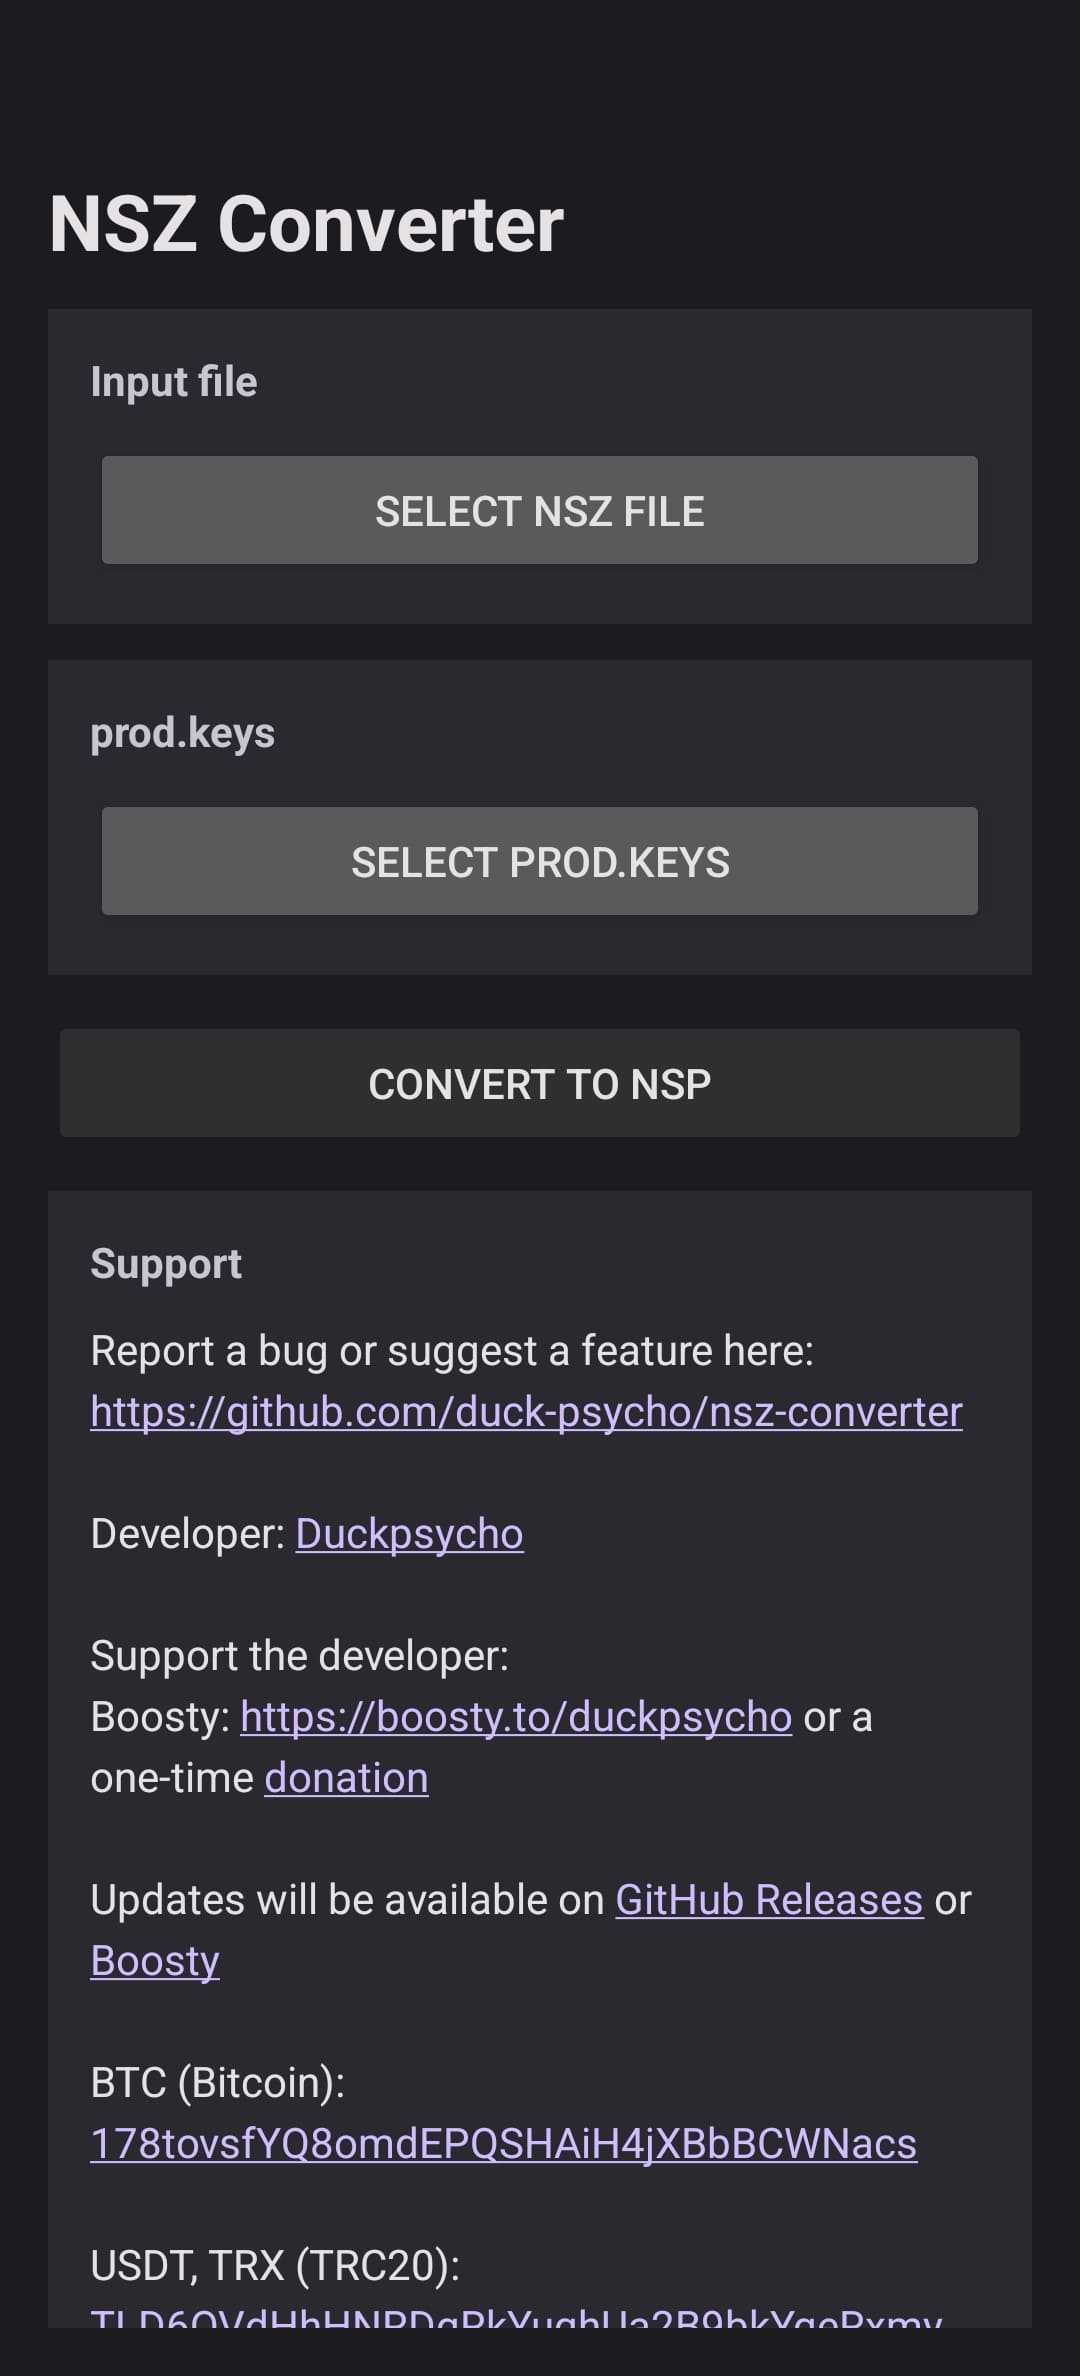
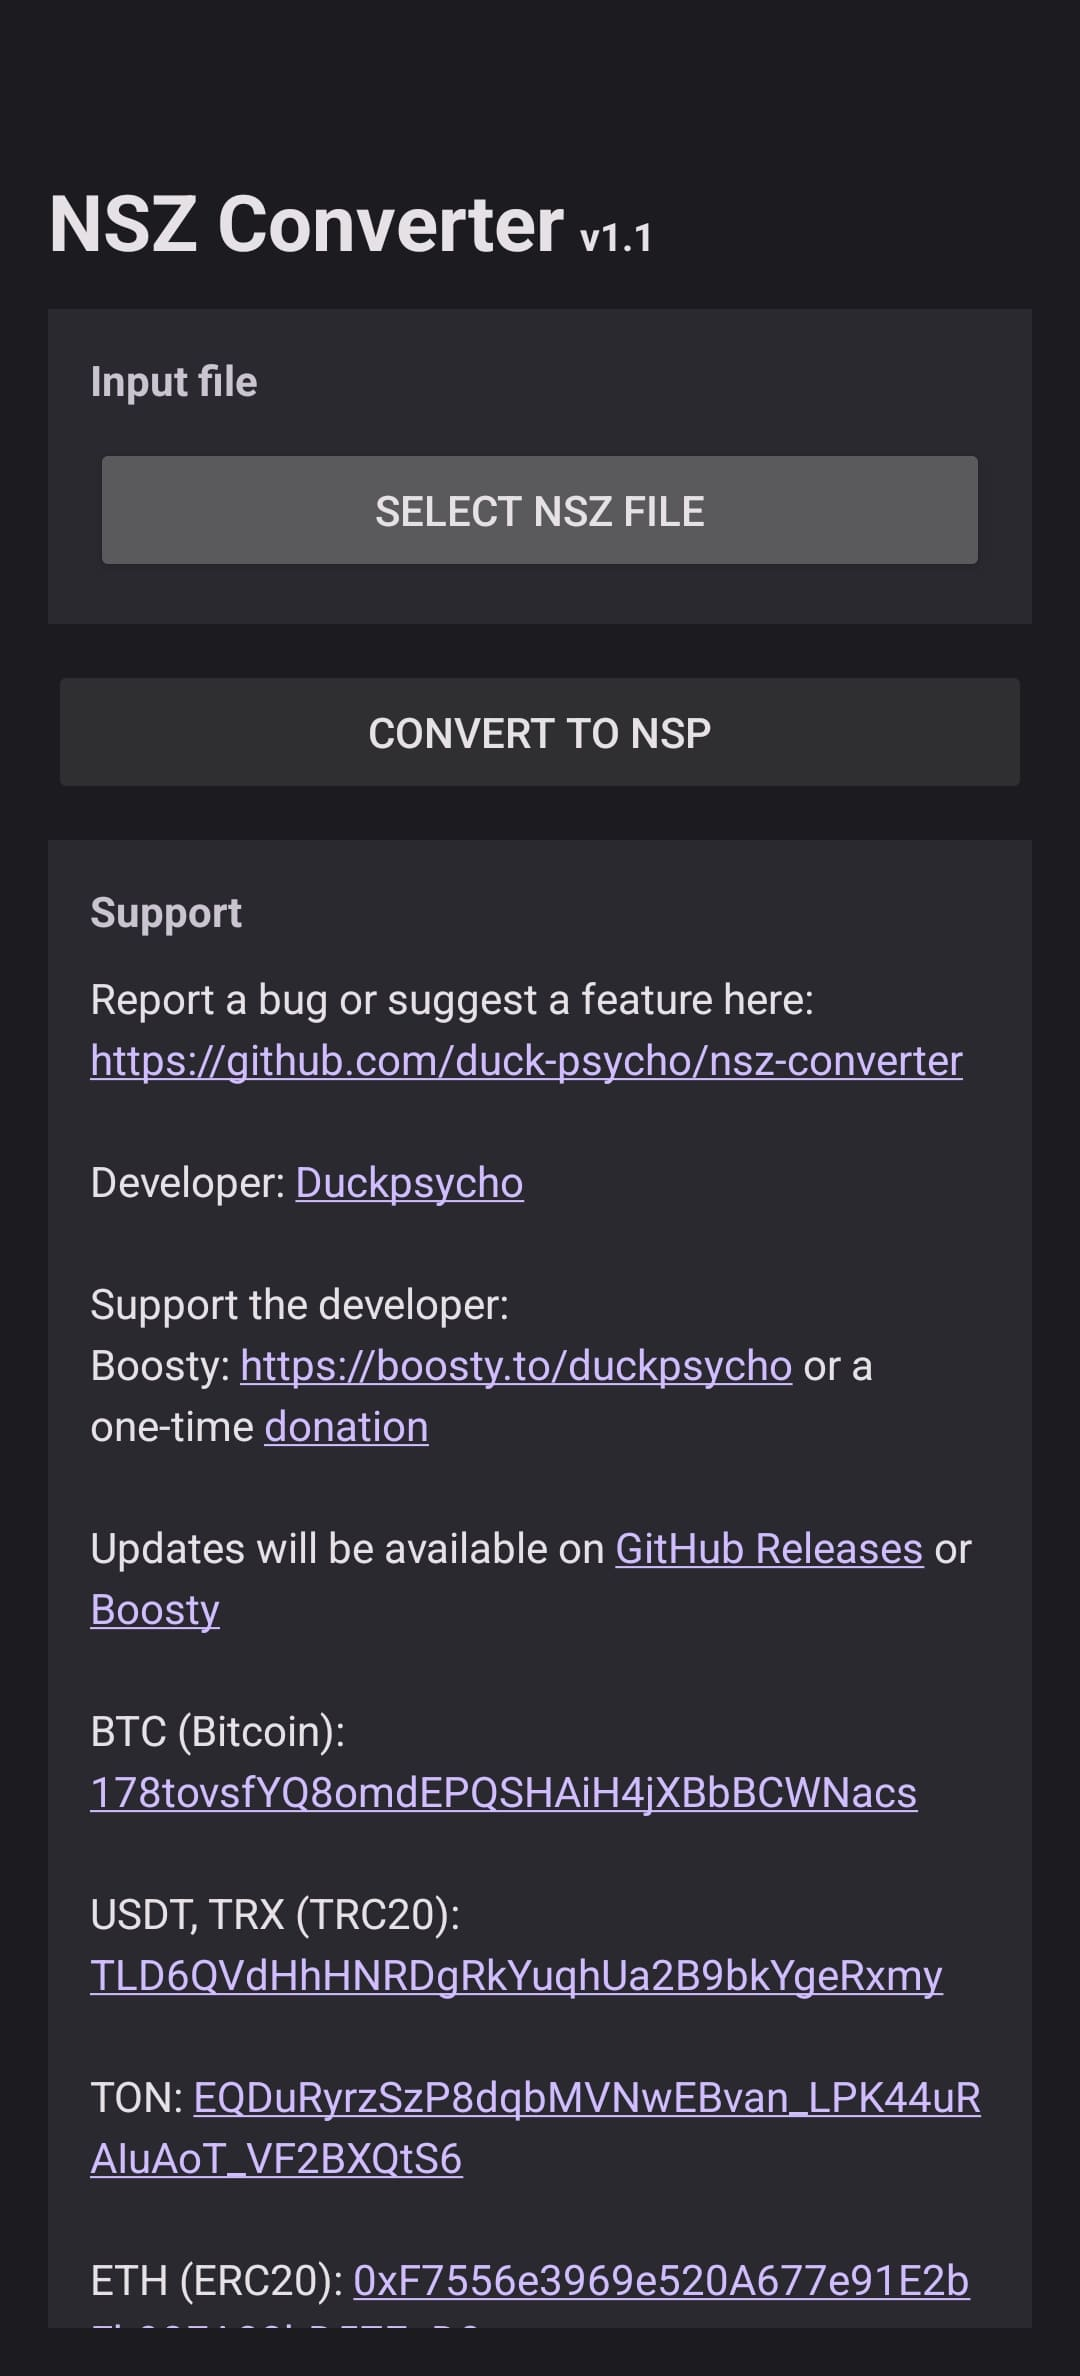
now the converter no longer uses the prod.keys file

Changed region(s): [[0.0611, 0.2803, 0.9167, 0.8409], [0.0917, 0.8721, 0.9167, 0.9966], [0.55, 0.0934, 0.6111, 0.1246]]

diff --git a/README.md b/README.md
@@ -37,7 +37,7 @@ BNB: 0xF7556e3969e520A677e91E2bFb90EA88bD57EaD9
 
 The author does not support or encourage piracy in any form.
 
-This application does not include, provide, or explain how to obtain `prod.keys`, game dumps, firmware files, or any other copyrighted materials.
+This application does not include, provide, or explain how to obtain game dumps, firmware files, or any other copyrighted materials.
 
 The project is intended for developers, research, and compatibility testing only.
 Users are solely responsible for ensuring that their use of this software complies with applicable laws and the rights of content owners.
